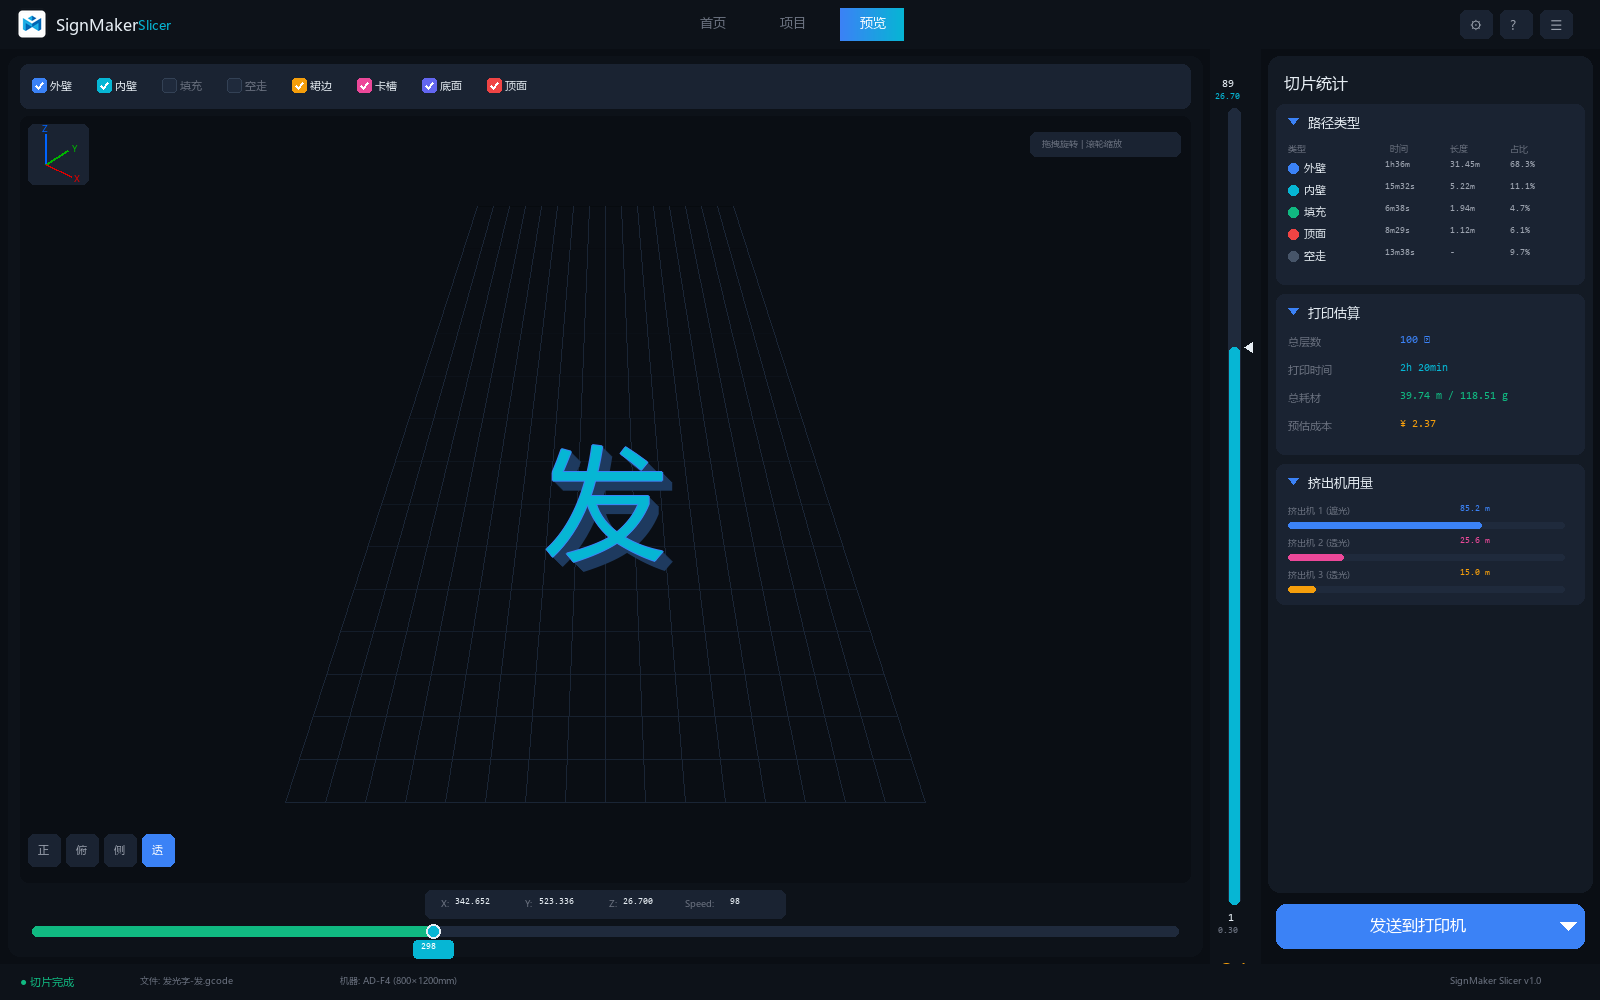
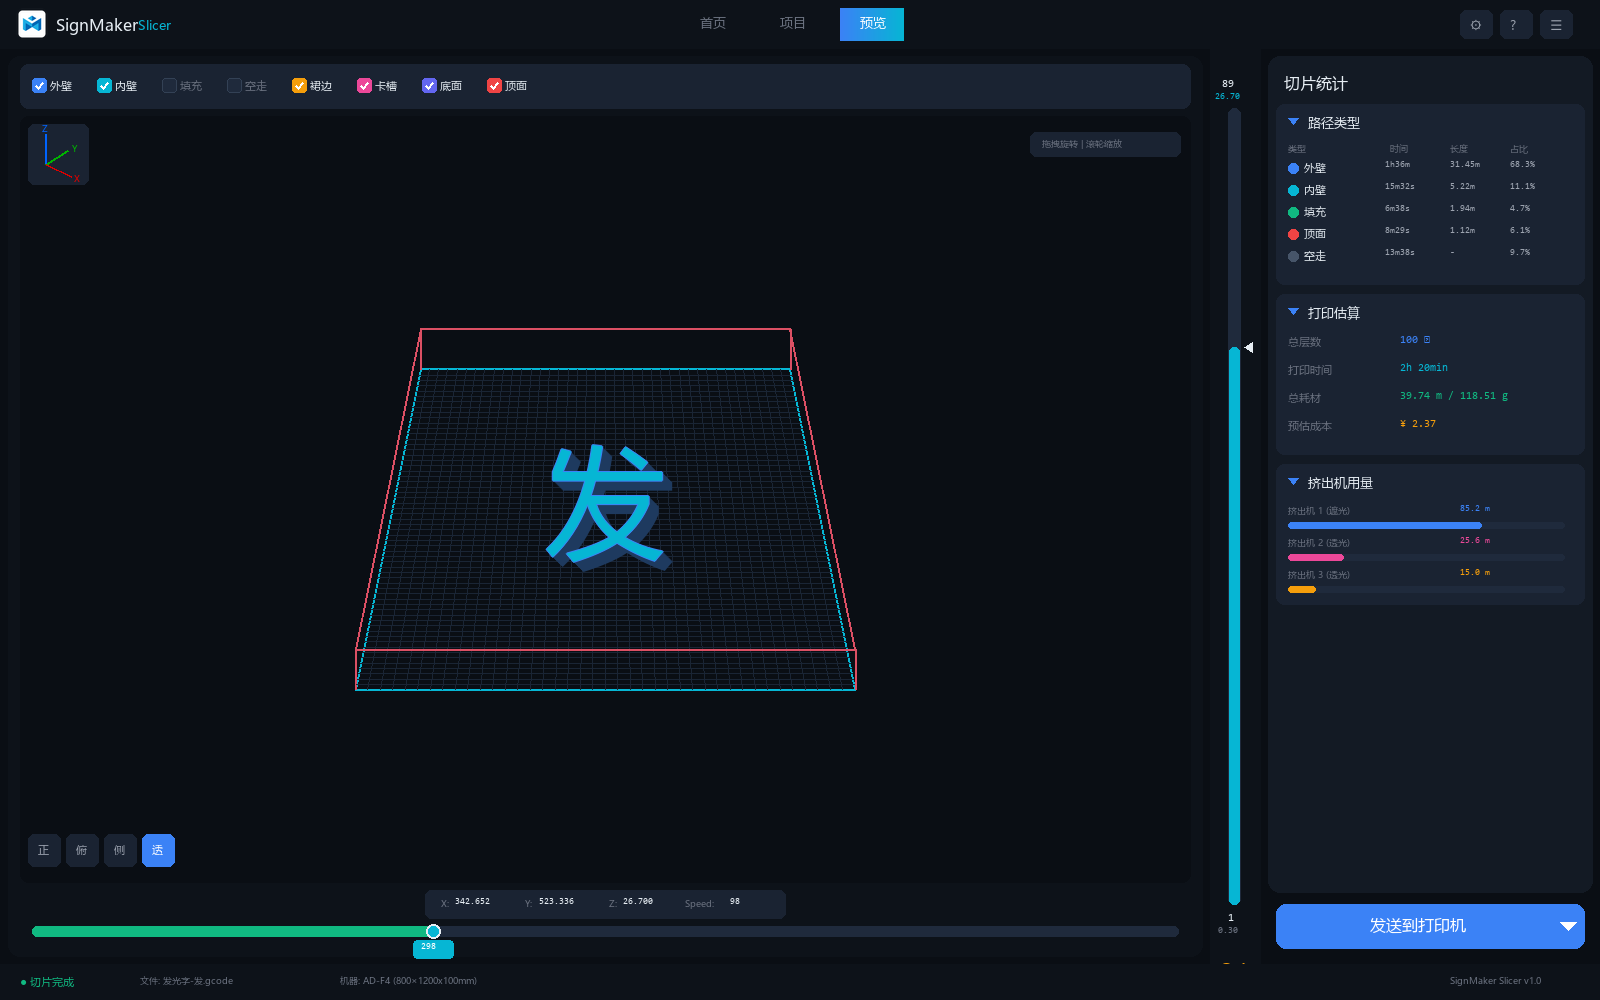
feat: 预览页面3D视图与项目页面保持一致
- 使用立体平台框架替代旧透视网格
- 红色顶部边框，青色底部边框
- 网格只绘制在底面

Changed region(s): [[0.2188, 0.31, 0.5625, 0.713]]

diff --git a/scripts/generate_ui_slice_preview.py b/scripts/generate_ui_slice_preview.py
@@ -240,38 +240,80 @@ def generate_preview_mode():
     draw_rounded_rect(hint_x, hint_y, 150, 24, 6, fill=C["bg_card"])
     draw_text(hint_x + 12, hint_y + 5, hint_text, font_small, C["text_muted"])
 
-    # 3D网格地面 (透视效果)
-    grid_center_x = canvas_x + canvas_w // 2
-    grid_center_y = inner_canvas_y + inner_canvas_h - 80
+    # 3D网格平台 - 简单透视效果（与项目3D页面一致）
+    # 参考效果图：前宽后窄的透视长方体
+
+    # 画布中心
+    canvas_center_x = canvas_x + canvas_w // 2
+    canvas_center_y = inner_canvas_y + inner_canvas_h // 2
+
+    # 平台尺寸参数（像素）- 预览页面稍小一些
+    platform_front_width = 500   # 前边宽度
+    platform_back_width = 370    # 后边宽度（透视收缩）
+    platform_depth = 320         # 前后深度（Y方向像素）
+    platform_height = 40         # 高度（Z方向）
+
+    # 顶面位置
+    top_front_y = canvas_center_y + 150  # 前边Y（靠近底部）
+    top_back_y = top_front_y - platform_depth  # 后边Y（靠近顶部）
+
+    # 边框颜色
+    border_color_top = (220, 80, 100)  # 红色 - 顶面和垂直边框
+    border_color_bottom = C["accent_secondary"]  # 青色 - 底面边框
     grid_color = C["grid_3d"]
-    vanish_y = inner_canvas_y + 30
-    grid_base_width = 320
-    grid_depth_lines = 14
 
-    # 横向网格线 (透视)
-    grid_step_y = (grid_center_y - vanish_y - 60) / grid_depth_lines
-    for i in range(grid_depth_lines + 1):
-        y_pos = int(grid_center_y - i * grid_step_y)
-        shrink = 1 - (i / grid_depth_lines) * 0.6
-        half_width = int(grid_base_width * shrink)
-        if y_pos > vanish_y:
-            alpha = max(0.3, 1 - i * 0.05)
-            line_color = tuple(int(c * alpha) for c in grid_color)
-            draw.line([(grid_center_x - half_width, y_pos),
-                       (grid_center_x + half_width, y_pos)], fill=line_color, width=1)
+    # ---- 顶面四个角（整数坐标）----
+    tf_fl_x = canvas_center_x - platform_front_width // 2  # 前左X
+    tf_fr_x = canvas_center_x + platform_front_width // 2  # 前右X
+    tf_bl_x = canvas_center_x - platform_back_width // 2   # 后左X
+    tf_br_x = canvas_center_x + platform_back_width // 2   # 后右X
 
-    # 纵向网格线 (透视)
-    grid_lines_x = 17
-    for i in range(grid_lines_x):
-        ratio = (i / (grid_lines_x - 1)) - 0.5
-        bottom_x = grid_center_x + int(ratio * 2 * grid_base_width)
-        top_x = grid_center_x + int(ratio * 2 * grid_base_width * 0.4)
-        top_y = int(grid_center_y - grid_depth_lines * grid_step_y)
-        draw.line([(bottom_x, grid_center_y), (top_x, top_y)], fill=grid_color, width=1)
+    # ---- 底面四个角 (在顶面下方，Y坐标一致偏移) ----
+    bf_front_y = top_front_y + platform_height
+    bf_back_y = top_back_y + platform_height
+
+    # ---- 绘制底面边框 ----
+    draw.line([(tf_fl_x, bf_front_y), (tf_fr_x, bf_front_y)], fill=border_color_bottom, width=2)
+    draw.line([(tf_fr_x, bf_front_y), (tf_br_x, bf_back_y)], fill=border_color_bottom, width=2)
+    draw.line([(tf_br_x, bf_back_y), (tf_bl_x, bf_back_y)], fill=border_color_bottom, width=2)
+    draw.line([(tf_bl_x, bf_back_y), (tf_fl_x, bf_front_y)], fill=border_color_bottom, width=2)
+
+    # ---- 绘制四条垂直边线 ----
+    draw.line([(tf_fl_x, top_front_y), (tf_fl_x, bf_front_y)], fill=border_color_top, width=2)
+    draw.line([(tf_fr_x, top_front_y), (tf_fr_x, bf_front_y)], fill=border_color_top, width=2)
+    draw.line([(tf_bl_x, top_back_y), (tf_bl_x, bf_back_y)], fill=border_color_top, width=2)
+    draw.line([(tf_br_x, top_back_y), (tf_br_x, bf_back_y)], fill=border_color_top, width=2)
+
+    # ---- 绘制底面网格（严格在青色边框内）----
+    # 机器尺寸 800x1200mm，格子20mm一格
+    grid_x_count = 40
+    grid_y_count = 60
+
+    # 只绘制内部网格线（不包括边框线）
+    # 横向网格线 (从前到后) - 绘制在底面
+    for i in range(1, grid_y_count):
+        t = i / grid_y_count
+        y = bf_front_y + int((bf_back_y - bf_front_y) * t)
+        left_x = tf_fl_x + int((tf_bl_x - tf_fl_x) * t)
+        right_x = tf_fr_x + int((tf_br_x - tf_fr_x) * t)
+        draw.line([(left_x, y), (right_x, y)], fill=grid_color, width=1)
+
+    # 纵向网格线 (从左到右) - 绘制在底面
+    for i in range(1, grid_x_count):
+        t = i / grid_x_count
+        front_x = tf_fl_x + int((tf_fr_x - tf_fl_x) * t)
+        back_x = tf_bl_x + int((tf_br_x - tf_bl_x) * t)
+        draw.line([(front_x, bf_front_y), (back_x, bf_back_y)], fill=grid_color, width=1)
+
+    # ---- 顶面边框 (最后绘制，覆盖网格边缘) ----
+    draw.line([(tf_fl_x, top_front_y), (tf_fr_x, top_front_y)], fill=border_color_top, width=2)
+    draw.line([(tf_fr_x, top_front_y), (tf_br_x, top_back_y)], fill=border_color_top, width=2)
+    draw.line([(tf_br_x, top_back_y), (tf_bl_x, top_back_y)], fill=border_color_top, width=2)
+    draw.line([(tf_bl_x, top_back_y), (tf_fl_x, top_front_y)], fill=border_color_top, width=2)
 
     # 绘制3D字壳模型 - "发"字
-    cx = grid_center_x
-    cy = inner_canvas_y + inner_canvas_h // 2 - 20
+    cx = canvas_center_x
+    cy = canvas_center_y - 20
 
     # 3D立体效果
     shadow_color = C["layer_base"]
@@ -520,7 +562,7 @@ def generate_preview_mode():
     draw_rounded_rect(0, HEIGHT - FOOTER_H, WIDTH, FOOTER_H, 0, fill=C["bg_primary"])
     draw_text(20, HEIGHT - FOOTER_H + 10, "● 切片完成", font_body, C["success"])
     draw_text(140, HEIGHT - FOOTER_H + 10, "文件: 发光字-发.gcode", font_small, C["text_muted"])
-    draw_text(340, HEIGHT - FOOTER_H + 10, "机器: AD-F4 (800×1200mm)", font_small, C["text_muted"])
+    draw_text(340, HEIGHT - FOOTER_H + 10, "机器: AD-F4 (800×1200x100mm)", font_small, C["text_muted"])
     draw_text(WIDTH - 150, HEIGHT - FOOTER_H + 10, "SignMaker Slicer v1.0", font_small, C["text_muted"])
 
     return img
